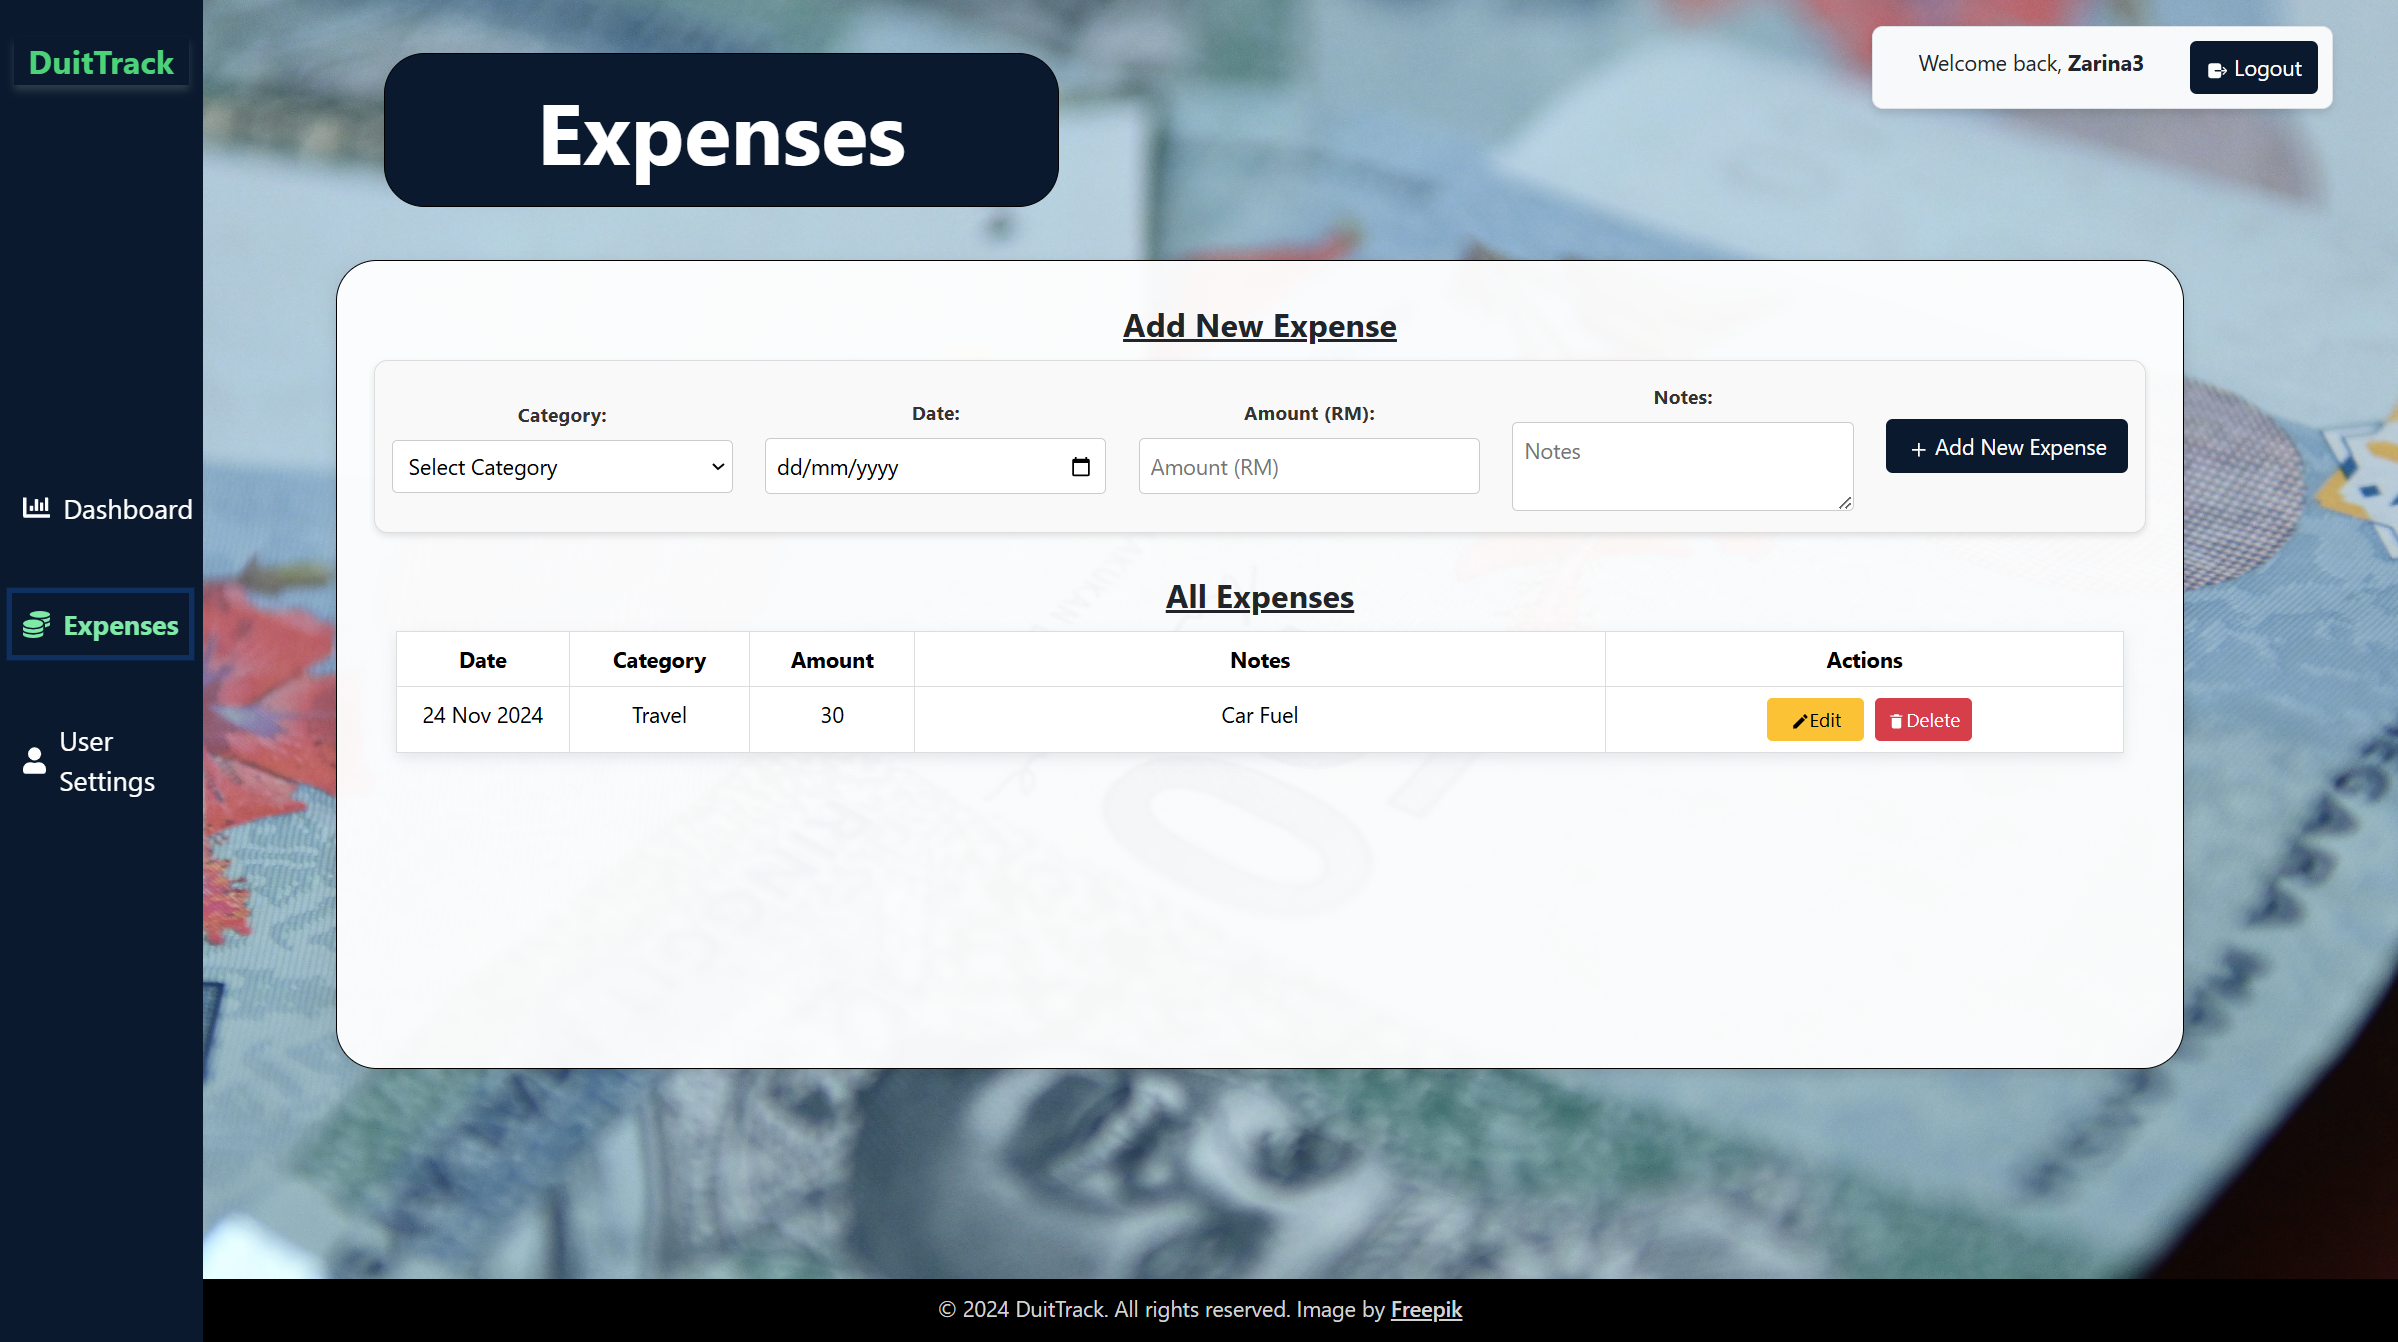
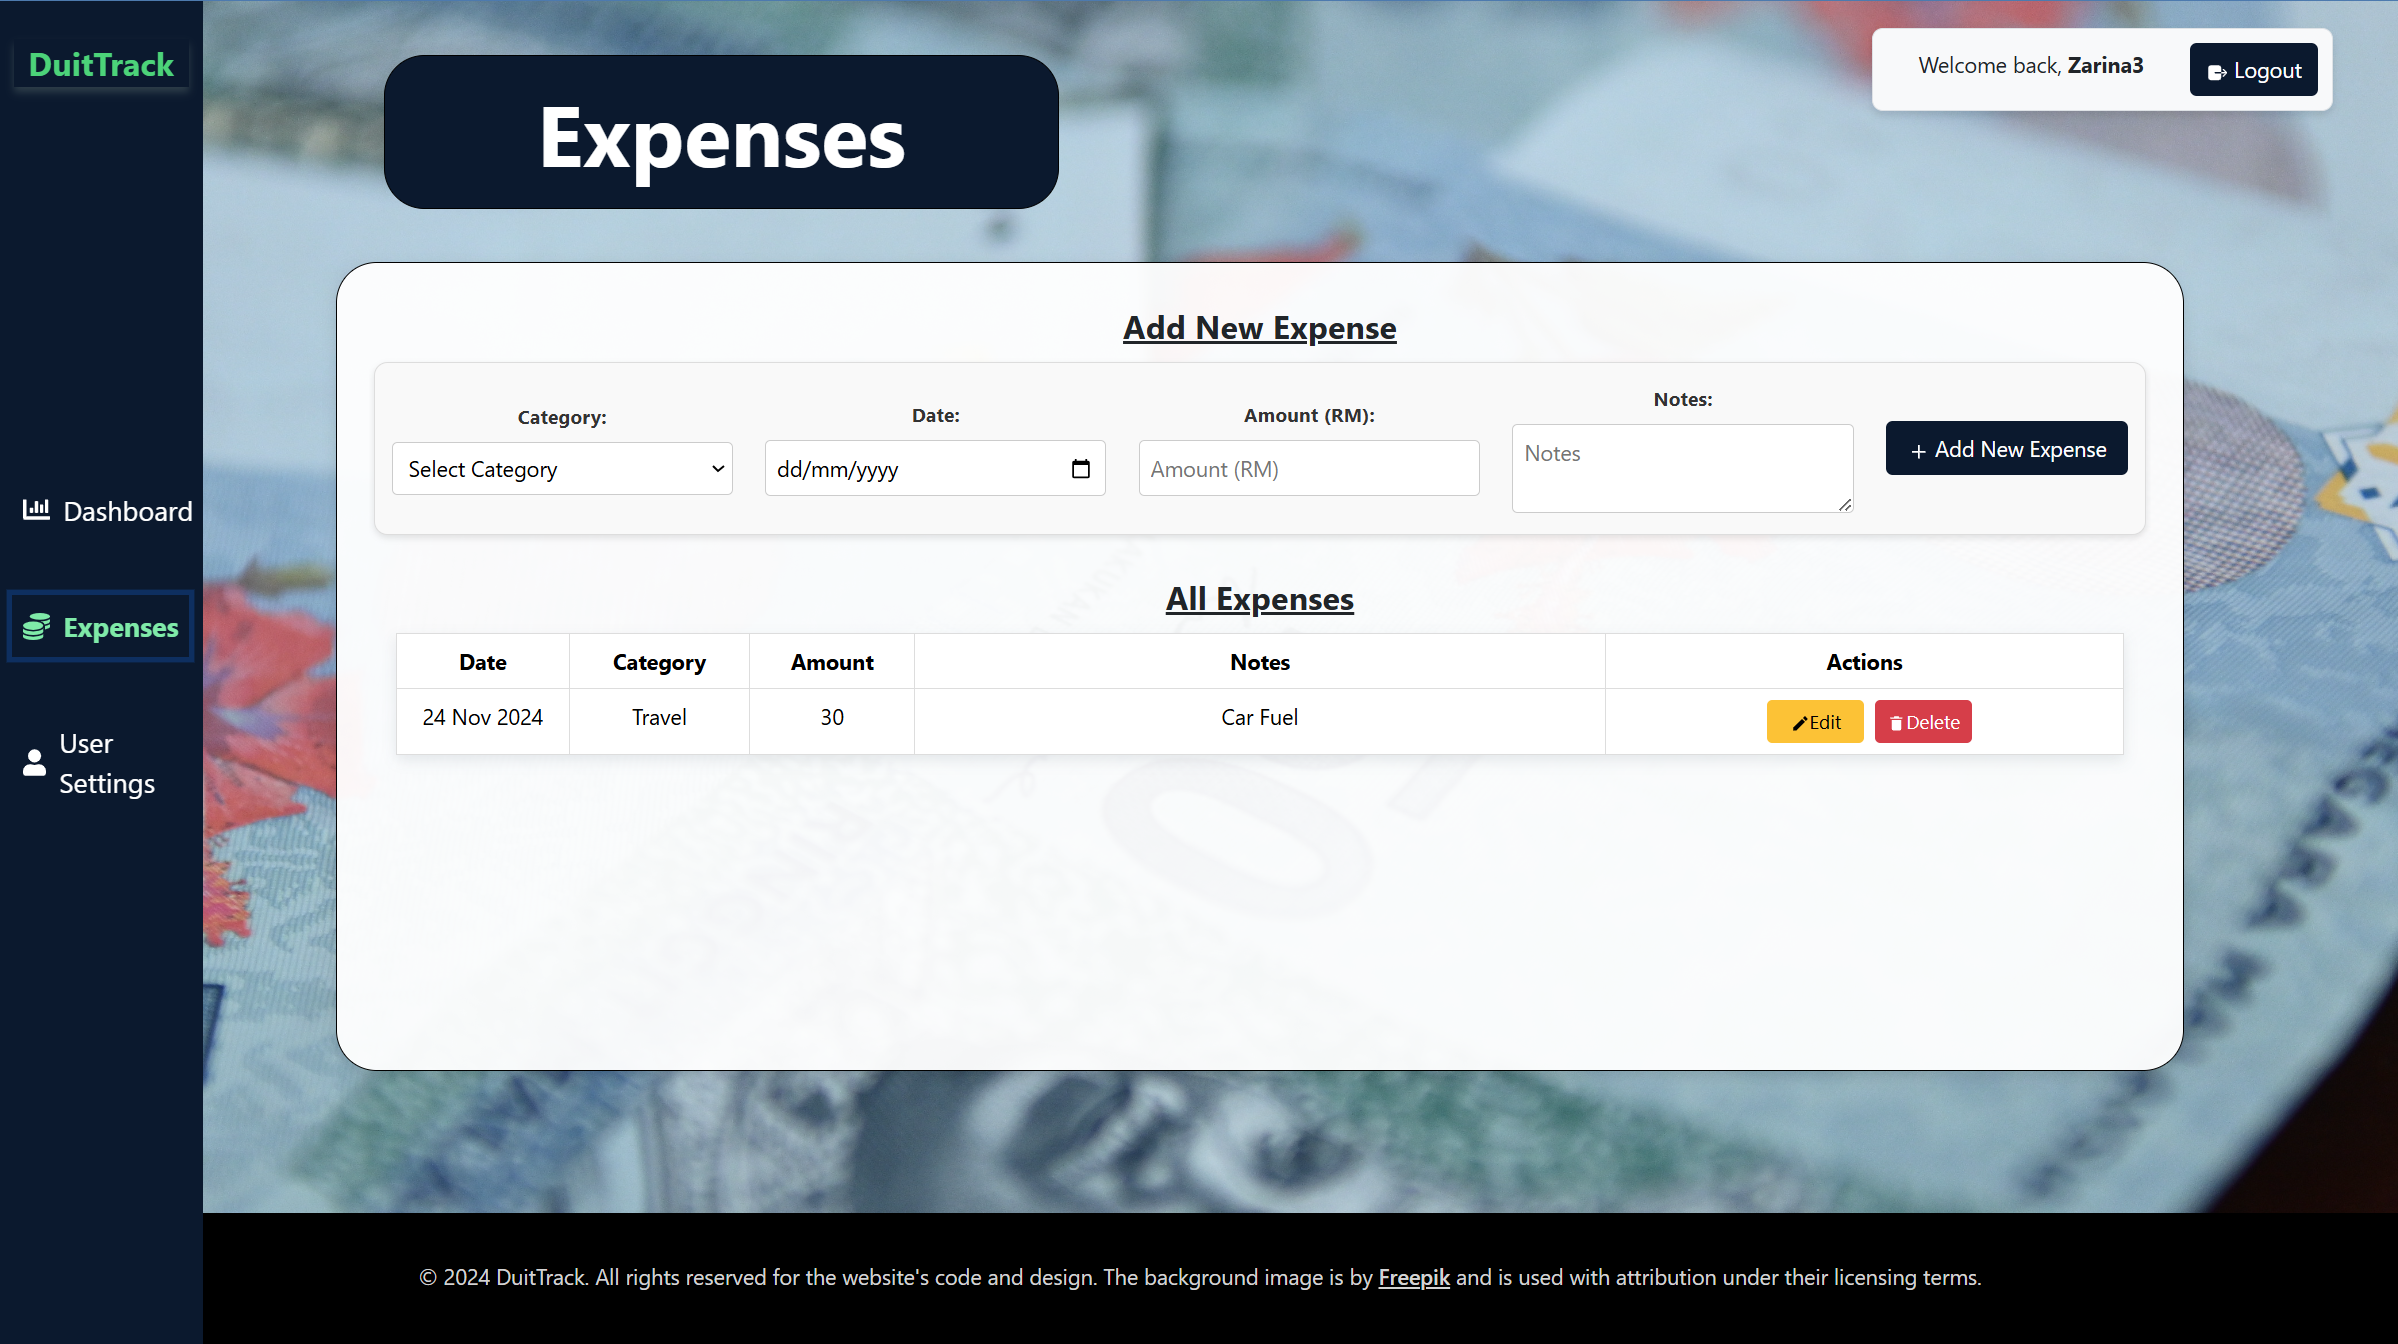
Updated acknowledgement and copyright in footer and updated website screenshots to include the updated footer.

diff --git a/frontend/src/components/Footer.jsx b/frontend/src/components/Footer.jsx
@@ -6,7 +6,7 @@ function Footer() {
         <Container fluid className="footer-container">
             <div className="footer-content">
                 <p style={{ paddingTop: "10px" }}>
-                    © 2024 DuitTrack. All rights reserved. Image by <a href="https://www.freepik.com/free-photo/closeup-shot-malaysian-riggit-bills_27738018.htm" target="_blank" rel="noopener noreferrer">Freepik</a>
+                    © 2024 DuitTrack. All rights reserved for the website's code and design. The background image is by <a href="https://www.freepik.com/free-photo/closeup-shot-malaysian-riggit-bills_27738018.htm" target="_blank" rel="noopener noreferrer">Freepik</a> and is used with attribution under their licensing terms.
                 </p>
             </div>
         </Container>

diff --git a/frontend/src/components/Footer.css b/frontend/src/components/Footer.css
@@ -1,7 +1,7 @@
 .footer-container {
     background-color: black;
     width: 100vw;
-    height: 5%;
+    height: 10vh;
     position: fixed;
     bottom: 0;
     text-align: center;
